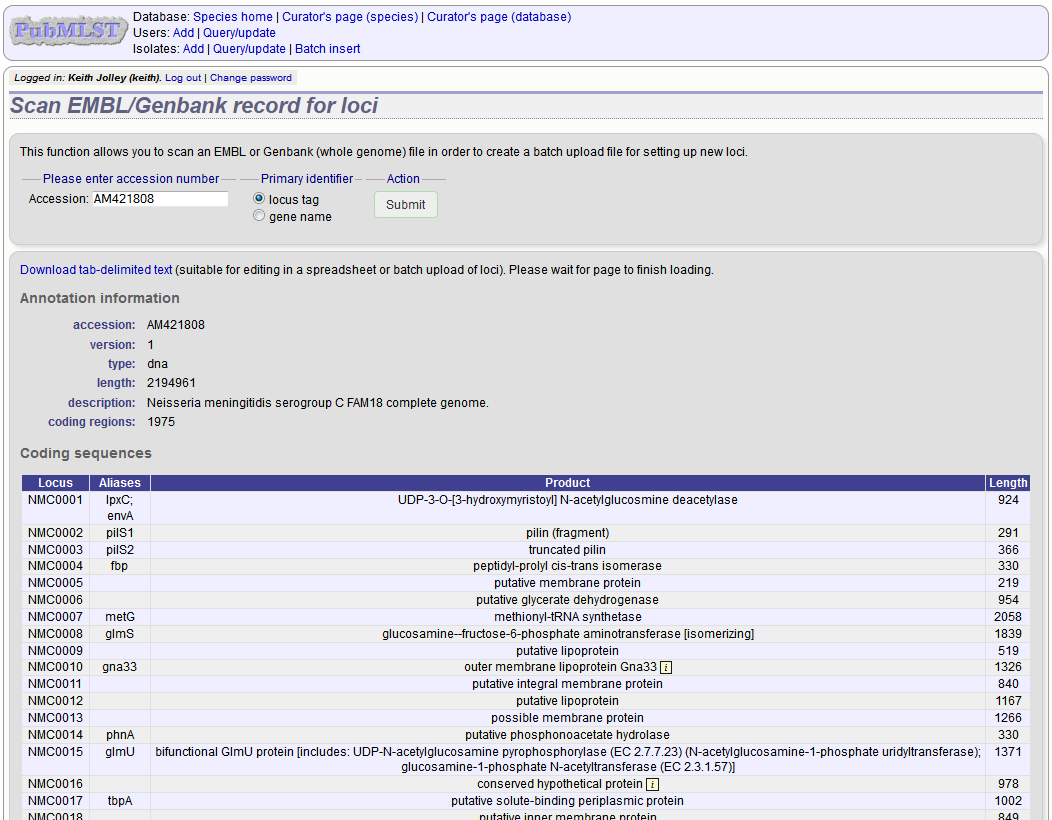
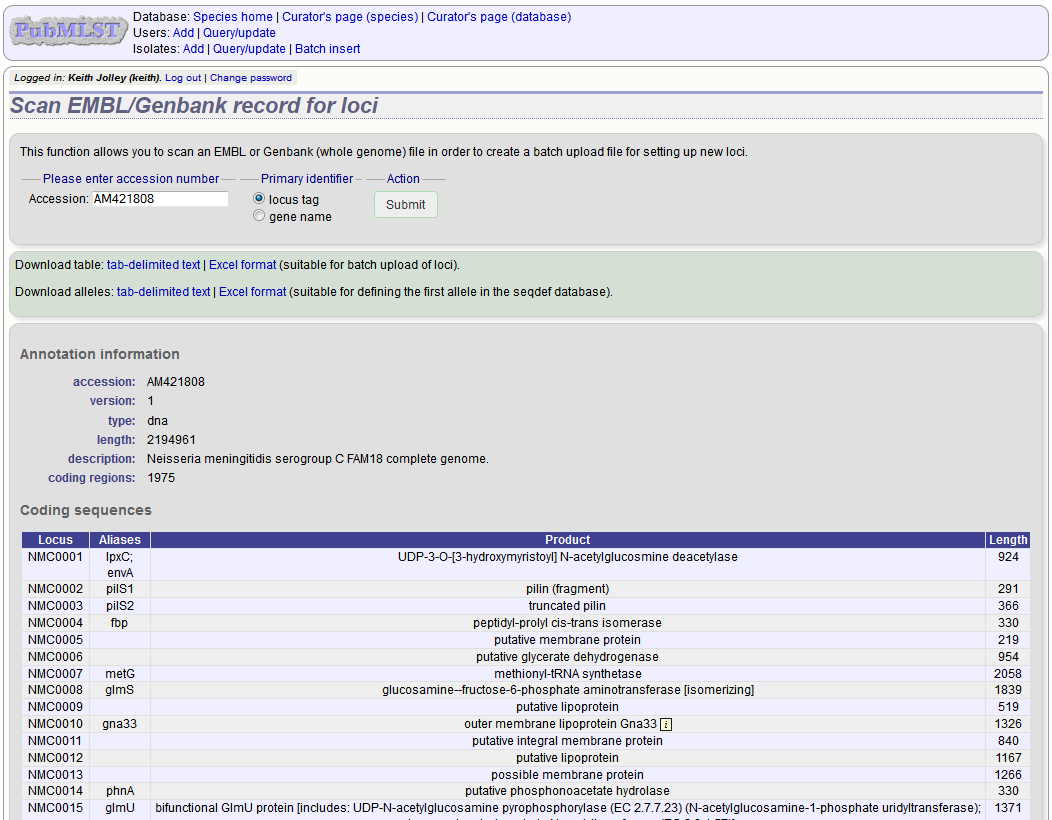
Update database scan.

Changed region(s): [[0.0, 0.3049, 1.0, 1.0]]

diff --git a/administration.rst b/administration.rst
@@ -1207,9 +1207,9 @@ The workflow for setting up a MLST scheme is as follows (the example seqdef data
 *****************************************************
 Defining new loci based on annotated reference genome
 *****************************************************
-An annotated reference genome can be used as the basis of defining loci.  The 'Databank scan' function of the isolate database will create an upload table suitable for pasting directly in to the batch locus add form of the :ref:`sequence definition <batch_adding_loci_seqdef>` or :ref:`isolate <batch_adding_loci_isolates>` databases.
+An annotated reference genome can be used as the basis of defining loci.  The 'Databank scan' function will create an upload table suitable for pasting directly in to the batch locus add form of the :ref:`sequence definition <batch_adding_loci_seqdef>` or :ref:`isolate <batch_adding_loci_isolates>` databases.
   
-Click 'Database scan' in the isolate database curator's contents pag.
+Click 'Database scan' on the curator's contents pag.
 
 .. image:: /images/administration/database_scan.png
 
@@ -1221,7 +1221,9 @@ A table of loci will be generated provided a valid accession number is provided.
 
 .. image:: /images/administration/database_scan3.png
 
-Click the link to 'Download tab-limited text' to display the text version suitable for loading in to the loci batch upload form.
+Tab-delimited text and Excel format files will be created to be used as the basis for upload files for the sequence definition and isolate databases.  Batch sequence files, in text and Excel formats, are also created for defining the first allele once the locus has been set up in the sequence definition database.
+
+.. image:: /images/administration/database_scan4.png
 
 .. index::
    single: genome filtering
